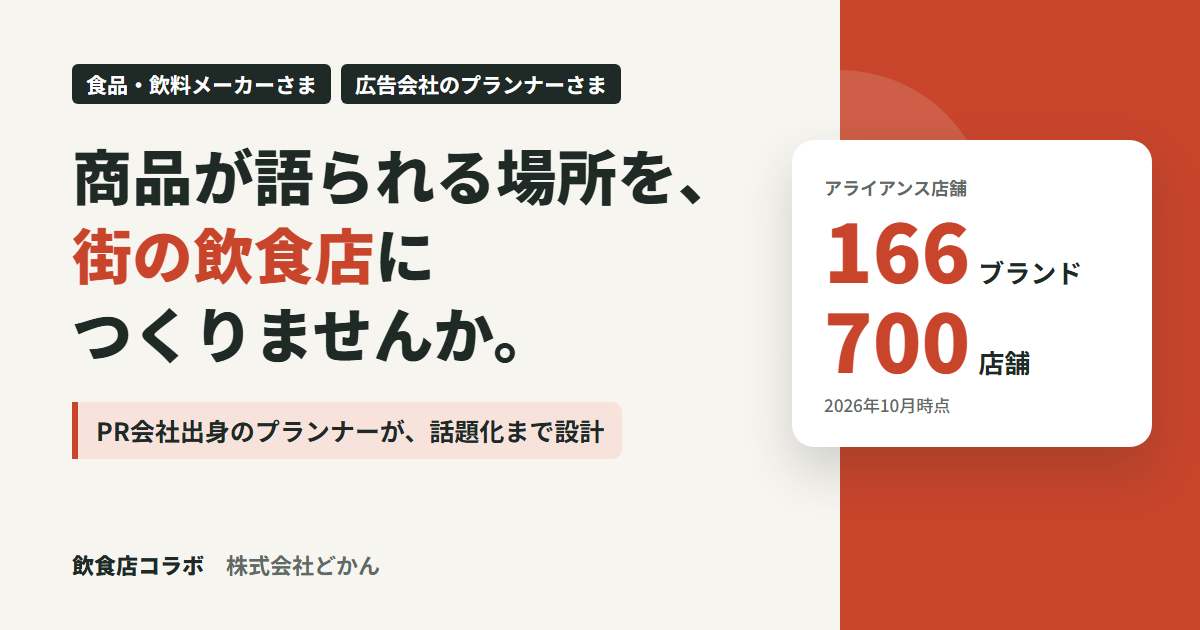
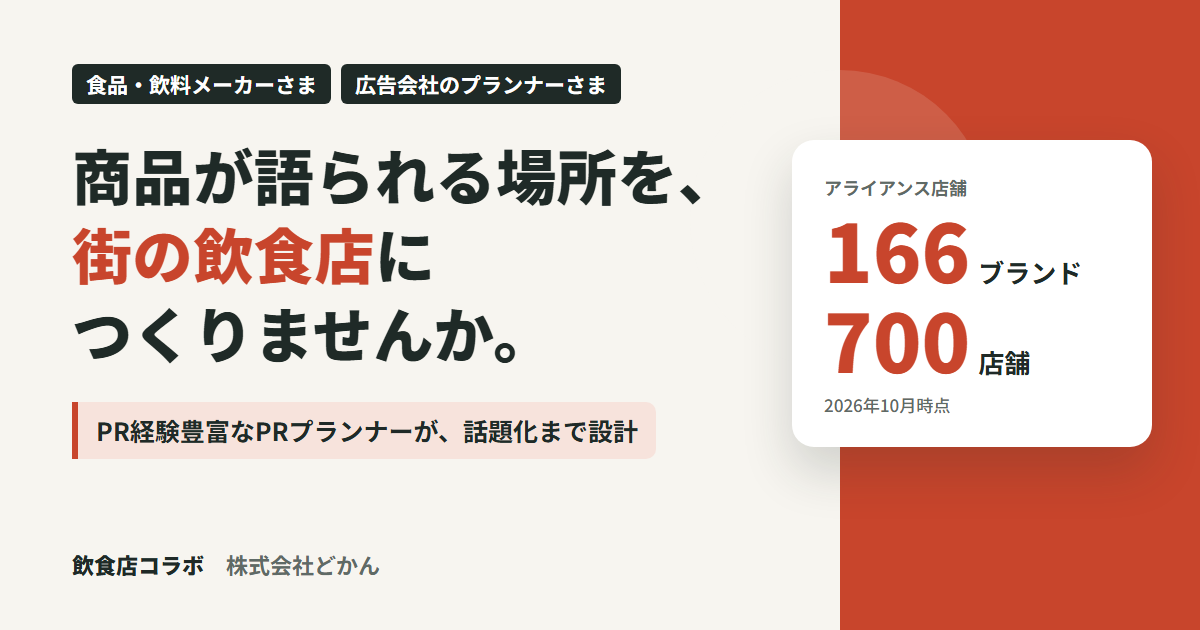
企業・広告会社向けLP：「PR会社出身のプランナー」を「PR経験豊富なPRプランナー」に変更、OGP画像も差し替え

Changed region(s): [[0.0925, 0.6635, 0.555, 0.7238]]

diff --git a/collabo/partner/index.html b/collabo/partner/index.html
@@ -5,20 +5,20 @@
 <meta name="viewport" content="width=device-width, initial-scale=1">
 <title>飲食店コラボのご案内（企業・広告会社のみなさまへ）｜株式会社どかん</title>
 <meta name="robots" content="noindex, nofollow, noarchive">
-<meta name="description" content="166ブランド・700店舗の飲食店ネットワークで、話題になるコラボメニューを。PR会社出身で、メディアやSNSでの話題づくりを熟知したプランナーが、店舗選びから企画、店舗との調整、発信までを設計します。">
+<meta name="description" content="166ブランド・700店舗の飲食店ネットワークで、話題になるコラボメニューを。PR経験豊富で、メディアやSNSでの話題づくりを熟知したPRプランナーが、店舗選びから企画、店舗との調整、発信までを設計します。">
 <meta property="og:type" content="website">
 <meta property="og:site_name" content="株式会社どかん">
 <meta property="og:title" content="飲食店コラボのご案内（企業・広告会社のみなさまへ）｜株式会社どかん">
-<meta property="og:description" content="166ブランド・700店舗の飲食店ネットワークで、話題になるコラボメニューを。PR会社出身のプランナーが、企画から発信まで設計します。">
+<meta property="og:description" content="166ブランド・700店舗の飲食店ネットワークで、話題になるコラボメニューを。PR経験豊富なPRプランナーが、企画から発信まで設計します。">
 <meta property="og:url" content="https://www.docaninc.com/collabo/partner/">
 <meta property="og:image" content="https://www.docaninc.com/collabo/partner/ogp.png">
 <meta property="og:image:width" content="1200">
 <meta property="og:image:height" content="630">
-<meta property="og:image:alt" content="商品が語られる場所を、街の飲食店につくりませんか。166ブランド・700店舗のアライアンス店舗。PR会社出身のプランナーが、話題化まで設計">
+<meta property="og:image:alt" content="商品が語られる場所を、街の飲食店につくりませんか。166ブランド・700店舗のアライアンス店舗。PR経験豊富なPRプランナーが、話題化まで設計">
 <meta property="og:locale" content="ja_JP">
 <meta name="twitter:card" content="summary_large_image">
 <meta name="twitter:title" content="飲食店コラボのご案内（企業・広告会社のみなさまへ）｜株式会社どかん">
-<meta name="twitter:description" content="166ブランド・700店舗の飲食店ネットワークで、話題になるコラボメニューを。PR会社出身のプランナーが設計します。">
+<meta name="twitter:description" content="166ブランド・700店舗の飲食店ネットワークで、話題になるコラボメニューを。PR経験豊富なPRプランナーが設計します。">
 <meta name="twitter:image" content="https://www.docaninc.com/collabo/partner/ogp.png">
 <link rel="icon" href="/favicon.ico" sizes="any">
 <link rel="icon" href="/favicon.png" type="image/png">
@@ -315,7 +315,7 @@
       <div>
         <div class="for-whom"><span>食品・飲料メーカーさま</span><span>広告会社のプランナーさま</span></div>
         <h1><span class="nw">商品が語られる場所を、</span><br><span class="nw"><em>街の飲食店</em>に</span><span class="nw">つくりませんか。</span></h1>
-        <p class="hero-planner"><b>PR会社出身で、メディアやSNSでの話題づくりを熟知したプランナー</b>が設計します。</p>
+        <p class="hero-planner"><b>PR経験豊富で、メディアやSNSでの話題づくりを熟知したPRプランナー</b>が設計します。</p>
         <p>どかんは、166ブランド・700店舗の飲食店とアライアンスを組んでいます。コラボメニューで商品を「食べて体験できる」形にし、店舗選びから企画、店舗との調整、メディア・SNSでの発信までをまとめてお引き受けします。</p>
         <div class="hero-actions">
           <a class="btn" href="#contact">相談してみる</a>
@@ -350,7 +350,7 @@
         <div class="worry">飲食店とコラボしたいが、お店探しや一店ずつの交渉に手が回らない</div>
         <div class="worry">クライアントへの提案に、話題になるリアルの施策を組み込みたい</div>
       </div>
-      <p class="worry-answer">どかんなら、<em>PR会社出身のプランナー</em>が、お店選び・メニュー企画・店舗との調整・発信までを一つの窓口で設計します。</p>
+      <p class="worry-answer">どかんなら、<em>PR経験豊富なPRプランナー</em>が、お店選び・メニュー企画・店舗との調整・発信までを一つの窓口で設計します。</p>
     </div>
   </section>
 
@@ -358,7 +358,7 @@
     <div class="wrap designer-grid">
       <div>
         <span class="eyebrow">PLANNING</span>
-        <h2>設計するのは、<span class="nw">PR会社出身のプランナーです</span></h2>
+        <h2>設計するのは、<span class="nw">PR経験豊富な</span><span class="nw">PRプランナーです</span></h2>
         <p>メニューをつくって店頭に並べるだけでは、話題にはなりません。どかんでは、メディアやSNSでの話題づくりを熟知したプランナーが、「どう報じられ、どう投稿されるか」から逆算して、コラボを設計します。</p>
       </div>
       <ul class="designer-points">
@@ -383,7 +383,7 @@
         <div class="arrow" aria-hidden="true"><span>ご相談</span></div>
         <div class="node center">
           <div class="node-kind">株式会社どかん</div>
-          <h3>PR会社出身のプランナーが設計</h3>
+          <h3>PR経験豊富なPRプランナーが設計</h3>
           <p>合うお店の選定、メニューと話題化の企画、店舗との調整、プレスリリースやメディア・インフルエンサー招致</p>
         </div>
         <div class="arrow" aria-hidden="true"><span>コラボの実施</span></div>
@@ -455,7 +455,7 @@
       <div class="reason-list">
         <div class="reason">
           <div class="num">1</div>
-          <h3>PR会社出身のプランナーが、話題になるところから逆算して設計</h3>
+          <h3>PR経験豊富なPRプランナーが、話題になるところから逆算して設計</h3>
           <p>メディアが取り上げたくなる切り口、SNSで思わず投稿したくなる仕掛け、発信のタイミングまで。メディアやSNSでの話題づくりを熟知したプランナーが、メニューづくりの段階から組み立てます。</p>
         </div>
         <div class="reason">
